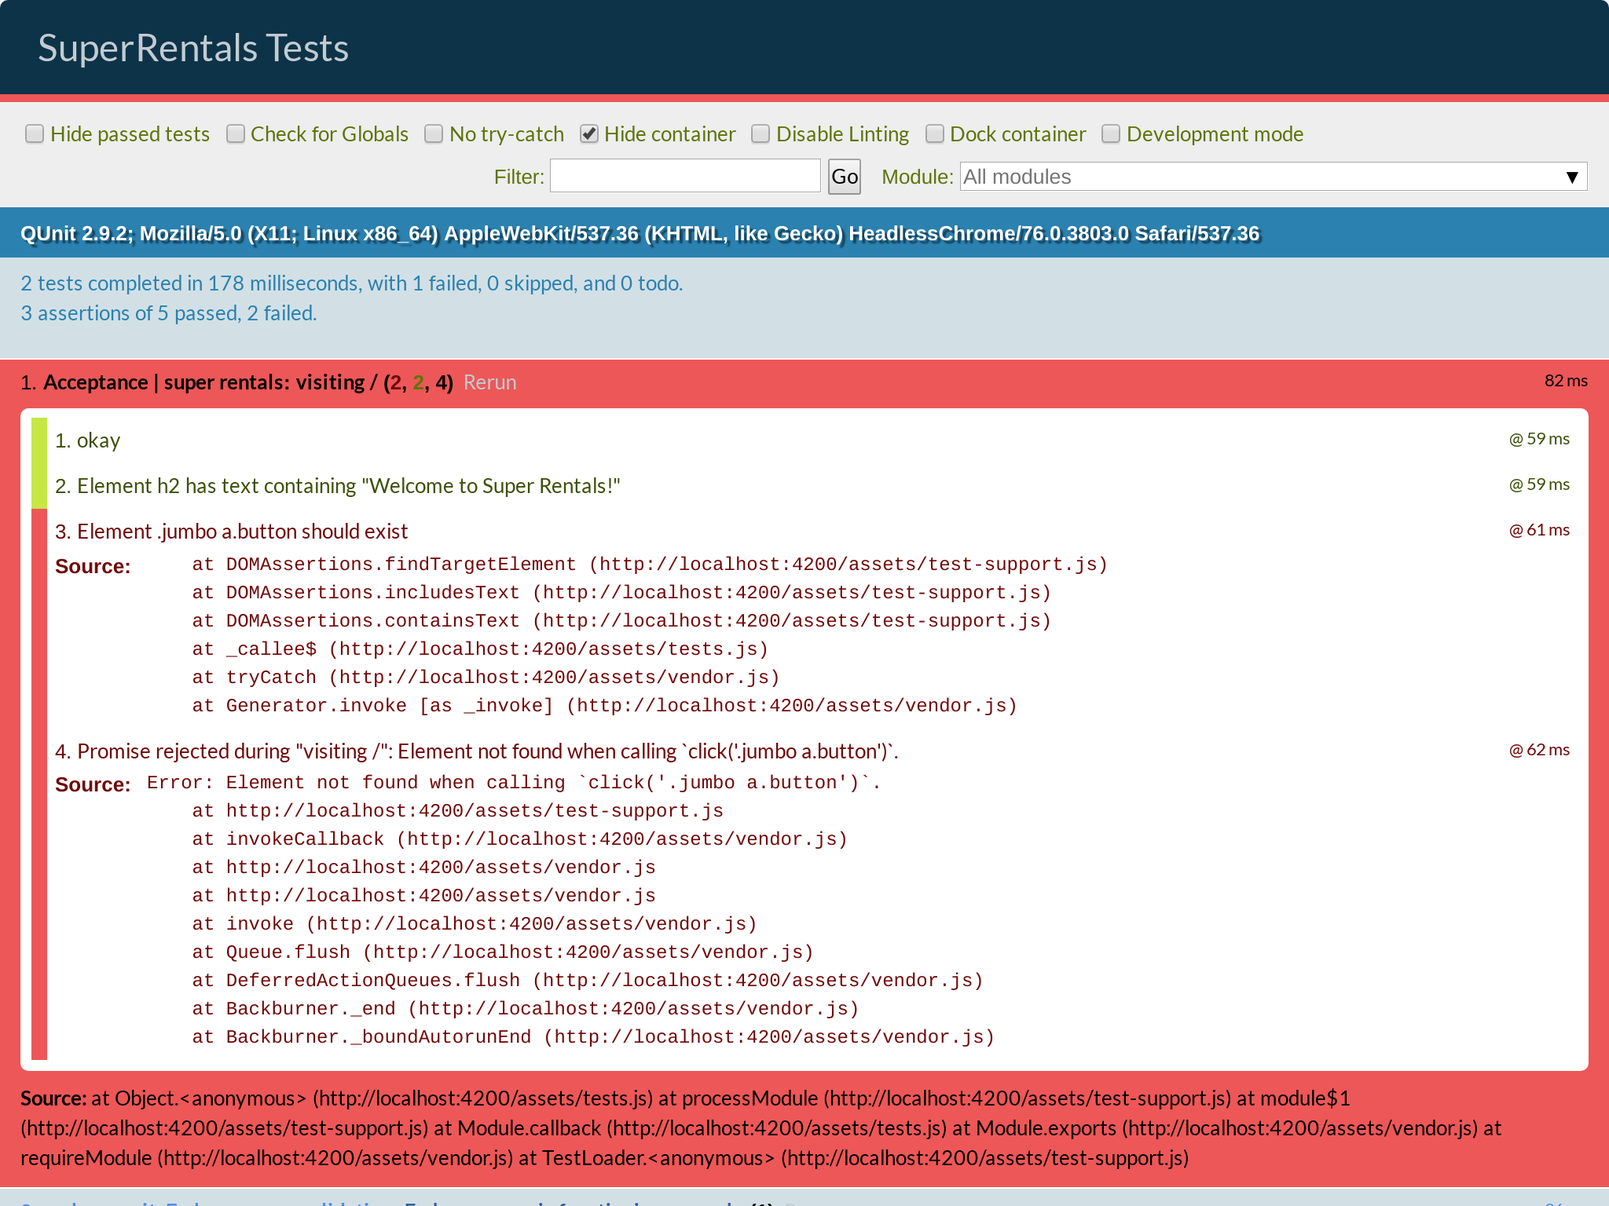
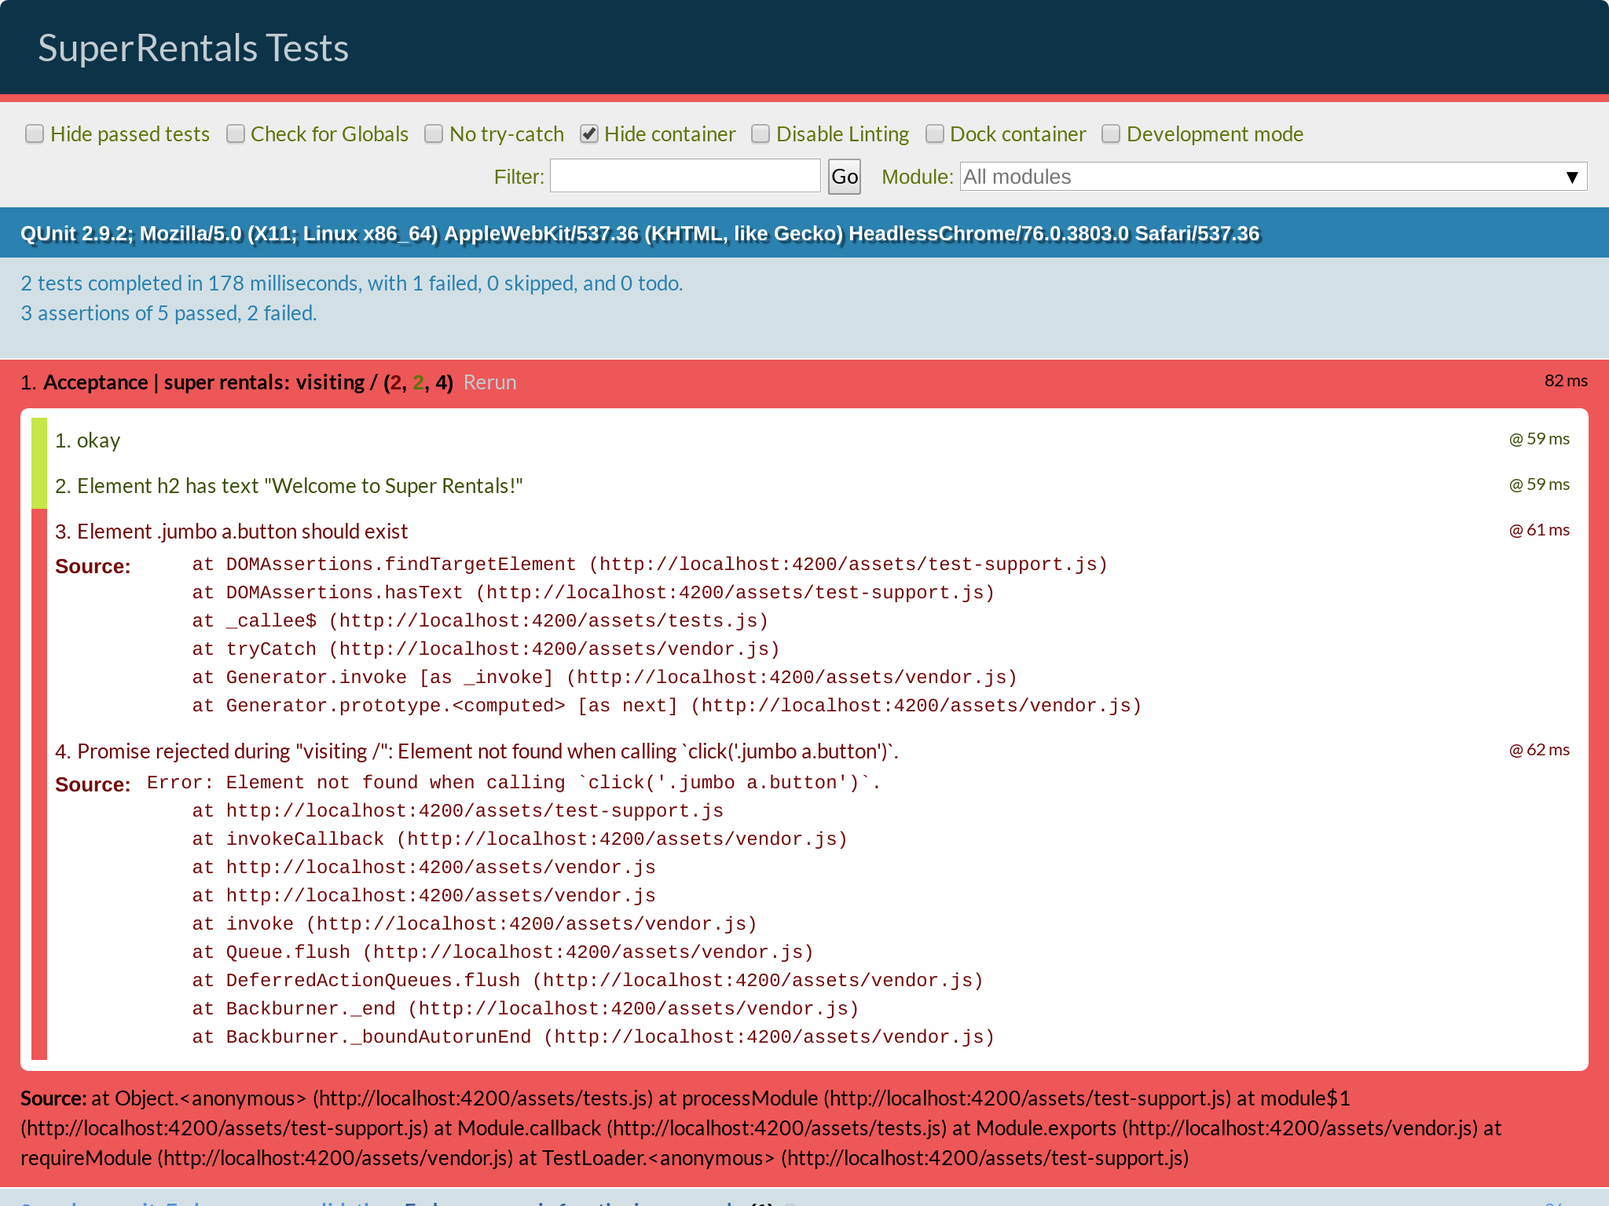
Octane Tutorial Updates (#1088)
* Merge ember-learn/super-rentals-tutorial#58

Fix various content bugs

---

Commit:  ember-learn/super-rentals-tutorial@88c12822ebed24fa5ddfdc4fd87be4ca7bf6f13a
Script:  https://github.com/ember-learn/super-rentals-tutorial/blob/88c12822ebed24fa5ddfdc4fd87be4ca7bf6f13a/scripts/deploy.sh
Logs:    https://travis-ci.org/ember-learn/super-rentals-tutorial/jobs/587654457

* Fix typo

---

Commit:  ember-learn/super-rentals-tutorial@e1bf0a01b07861cd3eb397d5e1fed92c738b8c60
Script:  https://github.com/ember-learn/super-rentals-tutorial/blob/e1bf0a01b07861cd3eb397d5e1fed92c738b8c60/scripts/deploy.sh
Logs:    https://travis-ci.org/ember-learn/super-rentals-tutorial/jobs/587706562

* Merge ember-learn/super-rentals-tutorial#59

Add Part 1 recap

---

Commit:  ember-learn/super-rentals-tutorial@a7f22fda75db3bb0ffa336c7022c4b2ebf6ab6a7
Script:  https://github.com/ember-learn/super-rentals-tutorial/blob/a7f22fda75db3bb0ffa336c7022c4b2ebf6ab6a7/scripts/deploy.sh
Logs:    https://travis-ci.org/ember-learn/super-rentals-tutorial/jobs/587782851

* Fix typo

---

Commit:  ember-learn/super-rentals-tutorial@3b5c6130d0ac0519782a8b85c947bc527daf9c46
Script:  https://github.com/ember-learn/super-rentals-tutorial/blob/3b5c6130d0ac0519782a8b85c947bc527daf9c46/scripts/deploy.sh
Logs:    https://travis-ci.org/ember-learn/super-rentals-tutorial/jobs/587849315

Changed region(s): [[0.125, 0.4688, 0.6875, 0.5938], [0.1562, 0.375, 0.375, 0.4062]]

diff --git a/guides/release/tutorial/03-automated-testing.md b/guides/release/tutorial/03-automated-testing.md
@@ -36,7 +36,7 @@ Generators aren't required; we _could_ have created the file ourselves which wou
   </div>
 </div>
 
-Acceptance tests are one of a few types of automated testing at our disposal in Ember. We will learn about the other types later, but what makes acceptance tests unique is that they test our app from the user's perspective — they are an automated version of the "click around and see if it works" testing we did earlier, which is exactly what we need.
+Acceptance tests, also known as _application tests_, are one of a few types of automated testing at our disposal in Ember. We will learn about the other types later, but what makes acceptance tests unique is that they test our app from the user's perspective — they are an automated version of the "click around and see if it works" testing we did earlier, which is exactly what we need.
 
 Let's open the generated test file and replace the boilerplate test with our own:
 
@@ -56,9 +56,9 @@ module('Acceptance | super rentals', function(hooks) {
 
     assert.equal(currentURL(), '/super-rentals');
     assert.equal(currentURL(), '/');
-    assert.dom('h2').containsText('Welcome to Super Rentals!');
+    assert.dom('h2').hasText('Welcome to Super Rentals!');
 
-    assert.dom('.jumbo a.button').containsText('About Us');
+    assert.dom('.jumbo a.button').hasText('About Us');
     await click('.jumbo a.button');
 
     assert.equal(currentURL(), '/about');
@@ -74,7 +74,7 @@ This is almost always the behavior we want, so we will almost always use `await`
 
 After navigating to the `/` URL and waiting for things to settle, we check that the current URL matches the URL that we expect (`/`). We can use the `currentURL` test helper here, as well as `equal` _assertion_. This is how we encode our "checklist" into code — by specifying, or _asserting_ how things _should_ behave, we will be alerted if our app does _not_ behave in the way that we expect.
 
-Next, we confirmed that the page has an `<h1>` tag that contains the text "Welcome to Super Rentals!". Knowing this is true means that we can be quite certain that the correct template has been rendered, without errors.
+Next, we confirmed that the page has an `<h2>` tag that contains the text "Welcome to Super Rentals!". Knowing this is true means that we can be quite certain that the correct template has been rendered, without errors.
 
 Then, we looked for a link with the text `About Us`, located using the _CSS selector_ `.jumbo a.button`. This is the same syntax we used in our stylesheet, which means "look inside the tag with the `jumbo` class for an `<a>` tag with the `button` class". This matches up with the HTML structure in our template.
 
@@ -124,9 +124,9 @@ module('Acceptance | super rentals', function(hooks) {
     await visit('/');
 
     assert.equal(currentURL(), '/');
-    assert.dom('h2').containsText('Welcome to Super Rentals!');
+    assert.dom('h2').hasText('Welcome to Super Rentals!');
 
-    assert.dom('.jumbo a.button').containsText('About Us');
+    assert.dom('.jumbo a.button').hasText('About Us');
     await click('.jumbo a.button');
 
     assert.equal(currentURL(), '/about');
@@ -136,9 +136,9 @@ module('Acceptance | super rentals', function(hooks) {
     await visit('/about');
 
     assert.equal(currentURL(), '/about');
-    assert.dom('h2').containsText('About Super Rentals');
+    assert.dom('h2').hasText('About Super Rentals');
 
-    assert.dom('.jumbo a.button').containsText('Contact Us');
+    assert.dom('.jumbo a.button').hasText('Contact Us');
     await click('.jumbo a.button');
 
     assert.equal(currentURL(), '/getting-in-touch');
@@ -148,9 +148,9 @@ module('Acceptance | super rentals', function(hooks) {
     await visit('/getting-in-touch');
 
     assert.equal(currentURL(), '/getting-in-touch');
-    assert.dom('h2').containsText('Contact Us');
+    assert.dom('h2').hasText('Contact Us');
 
-    assert.dom('a.button').containsText('About');
+    assert.dom('a.button').hasText('About');
     await click('.jumbo a.button');
 
     assert.equal(currentURL(), '/about');
@@ -162,6 +162,6 @@ As with the development server, the test UI should automatically reload and reru
 
 <img src="/screenshots/03-automated-testing/pass-2@2x.png" alt="Tests still passing with the new tests" width="1024" height="512">
 
-For the rest of the tutorial, we will continue to add more automated tests as we develop new features. Testing is optional; tests don't affect the functionality your app, they just protect it from _regressions_, which is just a fancy way of saying "accidental breakages."
+For the rest of the tutorial, we will continue to add more automated tests as we develop new features. Testing is optional but highly recommended. Tests don't affect the functionality your app, they just protect it from _regressions_, which is just a fancy way of saying "accidental breakages."
 
 If you are in a hurry, you can skip over the testing sections in this tutorial and still be able to follow along with everything else. But don't you find it super satisfying — _oddly satisfying_ — to watch a robot click on things really, really fast?

diff --git a/guides/release/tutorial/04-component-basics.md b/guides/release/tutorial/04-component-basics.md
@@ -105,7 +105,7 @@ After saving, everything should look exactly the same as before, and all the tes
 
 <img src="/screenshots/04-component-basics/pass-2@2x.png" alt="Tests still passing another round of refactor" width="1024" height="512">
 
-While it may not save you a lot of characters in this case, encapsulating\* the implementation of the "jumbo" header into its own component makes the template slightly easier to read, as it allows the reader to focus on things that are unique to just that page. Further, if we need to make a change to the header, we can make it in a single place. Feel free to give that a try!
+While it may not save you a lot of characters in this case, _encapsulating_ the implementation of the "jumbo" header into its own component makes the template slightly easier to read, as it allows the reader to focus on things that are unique to just that page. Further, if we need to make a change to the header, we can make it in a single place. Feel free to give that a try!
 
 Before we move on to the next component, let's write an automated test for our `<Jumbo>` component. Run this command in your terminal:
 
@@ -115,7 +115,7 @@ installing component-test
   create tests/integration/components/jumbo-test.js
 ```
 
-Here, we used the generator to generate a _component test_. These are used to render and test a single component at a time. This is in contrast to the acceptance tests that we wrote earlier, which have to navigate and render entire pages worth of content.
+Here, we used the generator to generate a _component test_, also known as a _rendering test_. These are used to render and test a single component at a time. This is in contrast to the acceptance tests that we wrote earlier, which have to navigate and render entire pages worth of content.
 
 Let's replace the boilerplate code that was generated for us with our own test:
 
@@ -147,7 +147,7 @@ module('Integration | Component | jumbo', function(hooks) {
 
     assert.equal(this.element.textContent.trim(), 'template block text');
     assert.dom('.jumbo').exists();
-    assert.dom('.jumbo').containsText('Hello World');
+    assert.dom('.jumbo').hasText('Hello World');
     assert.dom('.jumbo .tomster').exists();
   });
 });
@@ -257,10 +257,10 @@ module('Acceptance | super rentals', function(hooks) {
 
     assert.equal(currentURL(), '/');
     assert.dom('nav').exists();
-    assert.dom('h1').containsText('SuperRentals');
-    assert.dom('h2').containsText('Welcome to Super Rentals!');
+    assert.dom('h1').hasText('SuperRentals');
+    assert.dom('h2').hasText('Welcome to Super Rentals!');
 
-    assert.dom('.jumbo a.button').containsText('About Us');
+    assert.dom('.jumbo a.button').hasText('About Us');
     await click('.jumbo a.button');
 
     assert.equal(currentURL(), '/about');
@@ -271,10 +271,10 @@ module('Acceptance | super rentals', function(hooks) {
 
     assert.equal(currentURL(), '/about');
     assert.dom('nav').exists();
-    assert.dom('h1').containsText('SuperRentals');
-    assert.dom('h2').containsText('About Super Rentals');
+    assert.dom('h1').hasText('SuperRentals');
+    assert.dom('h2').hasText('About Super Rentals');
 
-    assert.dom('.jumbo a.button').containsText('Contact Us');
+    assert.dom('.jumbo a.button').hasText('Contact Us');
     await click('.jumbo a.button');
 
     assert.equal(currentURL(), '/getting-in-touch');
@@ -285,10 +285,10 @@ module('Acceptance | super rentals', function(hooks) {
 
     assert.equal(currentURL(), '/getting-in-touch');
     assert.dom('nav').exists();
-    assert.dom('h1').containsText('SuperRentals');
-    assert.dom('h2').containsText('Contact Us');
+    assert.dom('h1').hasText('SuperRentals');
+    assert.dom('h2').hasText('Contact Us');
 
-    assert.dom('a.button').containsText('About');
+    assert.dom('a.button').hasText('About');
     await click('.jumbo a.button');
 
     assert.equal(currentURL(), '/about');
@@ -298,9 +298,9 @@ module('Acceptance | super rentals', function(hooks) {
     await visit('/');
 
     assert.dom('nav').exists();
-    assert.dom('nav a.menu-index').containsText('SuperRentals')
-    assert.dom('nav a.menu-about').containsText('About');
-    assert.dom('nav a.menu-contact').containsText('Contact');
+    assert.dom('nav a.menu-index').hasText('SuperRentals')
+    assert.dom('nav a.menu-about').hasText('About');
+    assert.dom('nav a.menu-contact').hasText('Contact');
 
     await click('nav a.menu-about');
     assert.equal(currentURL(), '/about');
@@ -380,7 +380,7 @@ While we are at it, we will also add a container element that wraps around the w
 </Jumbo>
 ```
 
-The `{{outlet}}` keyword denotes the place where our site's pages should be rendered into, similar to the `{{yield}}` keyword.
+The `{{outlet}}` keyword denotes the place where our site's pages should be rendered into, similar to the `{{yield}}` keyword we saw earlier.
 
 This is much nicer! We can run our test suite which confirms that everything still works after our refactor. We are ready to move on to the next feature!
 

diff --git a/guides/release/tutorial/09-part-1-recap.md b/guides/release/tutorial/09-part-1-recap.md
@@ -1,3 +1,82 @@
 <!-- Heads up! This is a generated file, do not edit directly. You can find the source at https://github.com/ember-learn/super-rentals-tutorial/blob/master/src/chapters/09-part-1-recap.md -->
 
-TODO: fill this in!
+Congratulations, you finished the first part of this tutorial!
+
+It was quite a journey! To recap, here is what you have learned:
+
+## [Chapter 1](../01-orientation/)
+
+- Install Ember CLI
+- Bootstrapping a new Ember app with Ember CLI
+- Starting and stopping the development server
+- Editing files and live reload
+- Working with HTML, CSS and assets in an Ember app
+
+## [Chapter 2](../02-building-pages/)
+
+- Defining routes
+- Using route templates
+- Customizing URLs
+- Linking pages with the `<LinkTo>` component
+- Passing arguments and attributes to components
+
+## [Chapter 3](../03-automated-testing/)
+
+- The purpose of automated testing
+- Writing acceptance tests
+- Using generators in Ember CLI
+- Testing with the QUnit test framework
+- Working with Ember's test helpers
+- Practicing the testing workflow
+
+## [Chapter 4](../04-component-basics/)
+
+- Extracting markup into components
+- Invoking components
+- Passing content to components
+- Yielding content with the `{{yield}}` keyword
+- Refactoring existing code
+- Writing component tests
+- Using the application template and `{{outlet}}`s
+
+## [Chapter 5](../05-more-about-components/)
+
+- Organizing code with namespaced components
+- Forwarding HTML attributes with `...attributes`
+- Determining the appropriate amount of test coverage
+
+## [Chapter 6](../06-interactive-components/)
+
+- Adding behavior to component with classes
+- Managing state with tracked properties
+- Accessing instance states from templates
+- Using conditionals syntaxes in templates
+- Responding to user interaction with actions
+- Invoking element modifiers
+- Testing user interactions
+
+## [Chapter 7](../07-reusable-components/)
+
+- Managing application-level configurations
+- Parameterizing components with arguments
+- Accessing component arguments
+- Interpolating values in templates
+- Overriding HTML attributes in `...attributes`
+- Refactoring with getters and auto-track
+- Getting JavaScript values into the test context
+
+## [Chapter 8](../08-working-with-data/)
+
+- Working with route files
+- Returning local data from the model hook
+- Accessing route models from templates
+- Mocking server data with static JSON files
+- Fetching remote data from the model hook
+- Adapting server data
+- Loops and local variables in templates with `{{#each}}`
+
+That's a lot! At this point, you are well equipped to perform a wide variety of development tasks in Ember!
+
+Go ahead and take a break, or experiment with creating your own unique Ember app using the skills you just learned.
+
+When you come back, we build upon what we learned in Part 1 and take things to the next level!

diff --git a/guides/release/tutorial/07-reusable-components.md b/guides/release/tutorial/07-reusable-components.md
@@ -81,11 +81,11 @@ As its name implies, `config/environment.js` is used to _configure_ our app and 
   </div>
 </div>
 
-After saving the changes to our configuration file, we will need to restart our development and test servers to pick up these file changes. Unlike the files we have edited so far, `config/environment.js` is not automatically reloaded.
+After saving the changes to our configuration file, we will need to restart our development server to pick up these file changes. Unlike the files we have edited so far, `config/environment.js` is not automatically reloaded.
 
 <!-- TODO: https://github.com/ember-cli/ember-cli/issues/8782 -->
 
-You can stop the server by finding the window where `ember server` is running, then type Ctrl-C into the terminal. That is, typing the "C" key on your keyboard _while_ holding down the "Ctrl" key at the same time. Once it has stopped, you can start it back up again with the same `ember server` command.
+You can stop the server by finding the terminal window where `ember server` is running, then type `Ctrl + C`. That is, typing the "C" key on your keyboard _while_ holding down the "Ctrl" key at the same time. Once it has stopped, you can start it back up again with the same `ember server` command.
 
 ```shell
 $ ember server
@@ -325,11 +325,11 @@ module('Integration | Component | rental', function(hooks) {
     await render(hbs`<Rental />`);
 
     assert.dom('article').hasClass('rental');
-    assert.dom('article h3').containsText('Grand Old Mansion');
-    assert.dom('article .detail.owner').containsText('Veruca Salt');
-    assert.dom('article .detail.type').containsText('Standalone');
-    assert.dom('article .detail.location').containsText('San Francisco');
-    assert.dom('article .detail.bedrooms').containsText('15');
+    assert.dom('article h3').hasText('Grand Old Mansion');
+    assert.dom('article .detail.owner').includesText('Veruca Salt');
+    assert.dom('article .detail.type').includesText('Standalone');
+    assert.dom('article .detail.location').includesText('San Francisco');
+    assert.dom('article .detail.bedrooms').includesText('15');
     assert.dom('article .image').exists();
     assert.dom('article .map').exists();
   });

diff --git a/guides/release/tutorial/05-more-about-components.md b/guides/release/tutorial/05-more-about-components.md
@@ -68,11 +68,11 @@ module('Integration | Component | rental', function(hooks) {
 
     assert.equal(this.element.textContent.trim(), 'template block text');
     assert.dom('article').hasClass('rental');
-    assert.dom('article h3').containsText('Grand Old Mansion');
-    assert.dom('article .detail.owner').containsText('Veruca Salt');
-    assert.dom('article .detail.type').containsText('Standalone');
-    assert.dom('article .detail.location').containsText('San Francisco');
-    assert.dom('article .detail.bedrooms').containsText('15');
+    assert.dom('article h3').hasText('Grand Old Mansion');
+    assert.dom('article .detail.owner').includesText('Veruca Salt');
+    assert.dom('article .detail.type').includesText('Standalone');
+    assert.dom('article .detail.location').includesText('San Francisco');
+    assert.dom('article .detail.bedrooms').includesText('15');
   });
 });
 ```
@@ -218,11 +218,11 @@ module('Integration | Component | rental', function(hooks) {
     await render(hbs`<Rental />`);
 
     assert.dom('article').hasClass('rental');
-    assert.dom('article h3').containsText('Grand Old Mansion');
-    assert.dom('article .detail.owner').containsText('Veruca Salt');
-    assert.dom('article .detail.type').containsText('Standalone');
-    assert.dom('article .detail.location').containsText('San Francisco');
-    assert.dom('article .detail.bedrooms').containsText('15');
+    assert.dom('article h3').hasText('Grand Old Mansion');
+    assert.dom('article .detail.owner').includesText('Veruca Salt');
+    assert.dom('article .detail.type').includesText('Standalone');
+    assert.dom('article .detail.location').includesText('San Francisco');
+    assert.dom('article .detail.bedrooms').includesText('15');
     assert.dom('article .image').exists();
   });
 });

diff --git a/guides/release/tutorial/01-orientation.md b/guides/release/tutorial/01-orientation.md
@@ -128,7 +128,7 @@ The development server is responsible for compiling our app and serving it to th
   </div>
 </div>
 
-You can exit out of the development server at any time by pressing `Ctrl + C` on your keyboard in the terminal where the server is running. We recommend having two terminal windows open: one to run the server in background, another to type Ember CLI commands.
+You can exit out of the development server at any time by typing `Ctrl + C` into the terminal window where `ember server` is running. That is, typing the "C" key on your keyboard _while_ holding down the "Ctrl" key at the same time. Once it has stopped, you can start it back up again with the same `ember server` command. We recommend having two terminal windows open: one to run the server in background, another to type other Ember CLI commands.
 
 The development server has a feature called _live reload_, which monitors your app for file changes, automatically re-compiles everything, and refreshes any open browser pages. This comes in really handy during development, so let's give that a try!
 

diff --git a/guides/release/tutorial/08-working-with-data.md b/guides/release/tutorial/08-working-with-data.md
@@ -183,11 +183,11 @@ module('Integration | Component | rental', function(hooks) {
     await render(hbs`<Rental @rental={{this.rental}} />`);
 
     assert.dom('article').hasClass('rental');
-    assert.dom('article h3').containsText('Grand Old Mansion');
-    assert.dom('article .detail.owner').containsText('Veruca Salt');
-    assert.dom('article .detail.type').containsText('Standalone');
-    assert.dom('article .detail.location').containsText('San Francisco');
-    assert.dom('article .detail.bedrooms').containsText('15');
+    assert.dom('article h3').hasText('Grand Old Mansion');
+    assert.dom('article .detail.owner').includesText('Veruca Salt');
+    assert.dom('article .detail.type').includesText('Standalone');
+    assert.dom('article .detail.location').includesText('San Francisco');
+    assert.dom('article .detail.bedrooms').includesText('15');
     assert.dom('article .image').exists();
     assert.dom('article .map').exists();
   });

diff --git a/guides/release/tutorial/06-interactive-components.md b/guides/release/tutorial/06-interactive-components.md
@@ -208,17 +208,17 @@ module('Integration | Component | rental/image', function(hooks) {
     assert.dom('button.image').exists();
 
     assert.dom('.image').doesNotHaveClass('large');
-    assert.dom('.image small').containsText('View Larger');
+    assert.dom('.image small').hasText('View Larger');
 
     await click('button.image');
 
     assert.dom('.image').hasClass('large')
-    assert.dom('.image small').containsText('View Smaller');
+    assert.dom('.image small').hasText('View Smaller');
 
     await click('button.image');
 
     assert.dom('.image').doesNotHaveClass('large');
-    assert.dom('.image small').containsText('View Larger');
+    assert.dom('.image small').hasText('View Larger');
   });
 });
 ```

diff --git a/guides/release/tutorial/10-part-2.md b/guides/release/tutorial/10-part-2.md
@@ -1,3 +1,3 @@
 <!-- Heads up! This is a generated file, do not edit directly. You can find the source at https://github.com/ember-learn/super-rentals-tutorial/blob/master/src/chapters/10-part-2.md -->
 
-TODO: fill this in!
+Coming soon!
